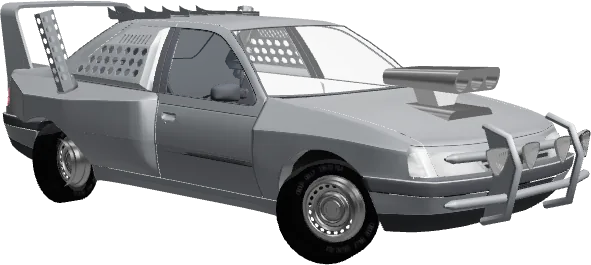
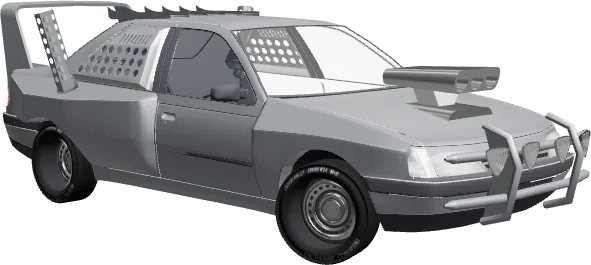
Game: round straight tires, fixed rims, Telegram safe areas, haptics
- Tires: the model's tire was ~12-sided and looked bent; replaced with
  a lathed 96-segment tire (bulged sidewall, rounded shoulder, tread
  and sidewall lettering texture) plus inner liner and hub backplate.
- Rims: the right-side rim in the model was inside-out; all four
  wheels now use the correct left rim, rotated (not mirrored).
- Front wheels steer by the real steering angle (no visual
  exaggeration), so they sit straight on a straight road.
- Header no longer hides under Telegram's fullscreen buttons: the
  game reads safeAreaInset + contentSafeAreaInset from the mini app's
  WebApp and follows its change events.
- Haptics via Telegram HapticFeedback (vibrate fallback): brake press
  and ABS pulses, near misses and combos, items, nitro, barrier, crash,
  countdown, gear shifts, garage tabs/colors/roads/upgrades, new record.
- Mini app: nav bar now slides fully off-screen on nav-less pages even
  with a large bottom safe area; card image re-rendered with new tires.

Claude-Session: https://claude.ai/code/session_013QubHuEE2Gi6bGAhgoo1tD

Changed region(s): [[0.4569, 0.6038, 0.6396, 1.0], [0.0305, 0.4528, 0.1827, 0.7849], [0.7919, 0.7245, 0.8223, 0.7547]]

diff --git a/app/webapp/static/game/index.html b/app/webapp/static/game/index.html
@@ -14,6 +14,8 @@
   color-scheme:dark;
 }
 [hidden]{display:none!important}
+/* --top/--bot: فاصله امن تلگرام (دکمه های بستن و منو در حالت تمام صفحه) یا خود گوشی */
+:root{--top:env(safe-area-inset-top,0px);--bot:env(safe-area-inset-bottom,0px)}
 html,body{height:100%}
 body{margin:0;background:var(--ink);color:var(--fg);font-family:var(--ui);overflow:hidden;-webkit-user-select:none;user-select:none;touch-action:none;-webkit-tap-highlight-color:transparent}
 #app{position:relative;height:100%;max-width:560px;margin:0 auto;overflow:hidden;background:#000}
@@ -24,7 +26,7 @@ button:focus-visible{outline:2px solid var(--aqua);outline-offset:2px}
 .num{font-variant-numeric:tabular-nums}
 
 /* ── HUD ── */
-#hud{position:absolute;inset:0;pointer-events:none;padding:calc(12px + env(safe-area-inset-top,0px)) 12px calc(14px + env(safe-area-inset-bottom,0px));display:flex;flex-direction:column}
+#hud{position:absolute;inset:0;pointer-events:none;padding:calc(12px + var(--top)) 12px calc(14px + var(--bot));display:flex;flex-direction:column}
 .hud-top{display:grid;grid-template-columns:44px 1fr auto;align-items:start;gap:10px}
 .ibtn{pointer-events:auto;width:44px;height:44px;border-radius:15px;display:grid;place-items:center;color:var(--fg);border:1px solid var(--stroke);background:var(--glass)}
 .ibtn svg{width:17px;height:17px}
@@ -80,7 +82,7 @@ button:focus-visible{outline:2px solid var(--aqua);outline-offset:2px}
 
 /* ── گاراژ: شوروم شب؛ ماشین بالای صفحه، پلاک مشخصات، زبانه ها، دکمه مسابقه ── */
 .dist .v,.combo .ring b,.pop b,#count,.res h2,.res .big b{font-weight:800}
-.sheet{position:absolute;inset:0;display:flex;flex-direction:column;padding:calc(14px + env(safe-area-inset-top,0px)) 14px calc(14px + env(safe-area-inset-bottom,0px));pointer-events:none}
+.sheet{position:absolute;inset:0;display:flex;flex-direction:column;padding:calc(14px + var(--top)) 14px calc(14px + var(--bot));pointer-events:none}
 .sheet > *{pointer-events:auto}
 .cut{clip-path:polygon(12px 0,100% 0,100% calc(100% - 12px),calc(100% - 12px) 100%,0 100%,0 12px)}
 .g-top{display:flex;align-items:center;gap:8px}
@@ -274,6 +276,32 @@ const fmt = n => FA(Math.round(n).toLocaleString('en-US'));
 const store = { get(k, d){ try { const v = localStorage.getItem('obour3d_' + k); return v == null ? d : JSON.parse(v); } catch(e){ return d; } },
                 set(k, v){ try { localStorage.setItem('obour3d_' + k, JSON.stringify(v)); } catch(e){} } };
 const rnd = (a, b) => a + Math.random() * (b - a);
+// تلگرام: داخل مینی اپ، بازی در iframe هم دامنه است و از WebApp صفحه مادر استفاده می کند
+const TG = (() => { try { if (window.parent !== window && window.parent.Telegram && window.parent.Telegram.WebApp) return window.parent.Telegram.WebApp; } catch(e){}
+  return (window.Telegram && window.Telegram.WebApp && window.Telegram.WebApp.initData) ? window.Telegram.WebApp : null; })();
+function applyInsets(){
+  if (!TG) return;
+  const sa = TG.safeAreaInset || {}, ca = TG.contentSafeAreaInset || {}, n = v => Number(v) > 0 ? Number(v) : 0;
+  const r = document.documentElement.style;
+  r.setProperty('--top', `max(env(safe-area-inset-top,0px), ${n(sa.top) + n(ca.top)}px)`);
+  r.setProperty('--bot', `max(env(safe-area-inset-bottom,0px), ${n(sa.bottom) + n(ca.bottom)}px)`);
+}
+applyInsets();
+if (TG && TG.onEvent) {
+  const evs = ['safeAreaChanged', 'contentSafeAreaChanged', 'fullscreenChanged', 'viewportChanged'];
+  for (const ev of evs) try { TG.onEvent(ev, applyInsets); } catch(e){}
+  window.addEventListener('pagehide', () => { for (const ev of evs) try { TG.offEvent(ev, applyInsets); } catch(e){} });
+}
+// لرزش: بازخورد لمسی تلگرام؛ بیرون تلگرام navigator.vibrate. چند لرزش پشت سرهم با فاصله کم یکی می شوند
+const Haptic = (() => {
+  const H = TG && TG.HapticFeedback, V = ms => { try { navigator.vibrate && navigator.vibrate(ms); } catch(e){} };
+  let last = 0; const gate = gap => { const t = performance.now(); if (t - last < gap) return false; last = t; return true; };
+  return {
+    tap(k = 'light', gap = 40){ if (!gate(gap)) return; try { if (H) H.impactOccurred(k); else V({ light:8, soft:6, medium:16, rigid:12, heavy:28 }[k] || 10); } catch(e){} },
+    note(k = 'success'){ last = performance.now(); try { if (H) H.notificationOccurred(k); else V(k === 'error' ? [40, 50, 70] : k === 'warning' ? [20, 40, 20] : [12, 30, 12]); } catch(e){} },
+    sel(){ if (!gate(30)) return; try { if (H) H.selectionChanged(); else V(5); } catch(e){} },
+  };
+})();
 const pick = a => a[Math.floor(Math.random() * a.length)];
 const clamp = (v, a, b) => Math.max(a, Math.min(b, v));
 const lerp = (a, b, t) => a + (b - a) * t;
@@ -655,12 +683,74 @@ const garageScene = new T.Scene();
 })();
 let showroomCar = null, carProto = null;
 const WHEEL_R = .276;
+/* لاستیک: لاستیک خود مدل خیلی کم چندضلعی بود (۱۲ وجه) و کج و شکسته دیده می شد.
+   این یکی از دوران یک مقطع واقعی ساخته می شود: ۹۶ قطعه، دیواره کمی برآمده، شانه گرد،
+   آج صاف. محور در x، مرکز روی توپی، مثل چرخ اصلی؛ رینگ خود مدل سر جایش می ماند.
+   v=۰ دیواره بیرونی (+x)، وسط آج، v=۱ دیواره داخلی. */
+const TIRE = (() => {
+  const R = WHEEL_R, W = .1, RIN = .19;
+  const pts = [], side = [];
+  // دیواره: از لبه رینگ تا شانه، با برآمدگی ملایم (سینوسی)
+  for (let i = 0; i <= 8; i++) { const t = i / 8, r = RIN + (R - .018 - RIN) * t; side.push([r, W * (.74 + .26 * Math.sin(t * Math.PI * .92))]); }
+  const shoulder = [[R - .009, W * .93], [R - .003, W * .86], [R, W * .76]];
+  const tread = []; for (let i = 1; i <= 7; i++) tread.push([R, W * .76 * (1 - 2 * i / 8)]);
+  const half = side.concat(shoulder);
+  for (const [r, x] of half) pts.push([r, x]);
+  for (const [r, x] of tread) pts.push([r, x]);
+  for (let i = half.length - 1; i >= 0; i--) pts.push([half[i][0], -half[i][1]]);
+  // Lathe دور محور y می چرخاند: y = عرض (x نهایی)، شعاع در xz؛ بعد محور را به x می بریم
+  const g = new T.LatheGeometry(pts.map(([r, x]) => new T.Vector2(r, -x)), 96);
+  g.rotateZ(Math.PI / 2);
+  g.computeVertexNormals();
+  const vT0 = half.length / (pts.length - 1), vT1 = (half.length + tread.length - 1) / (pts.length - 1);
+  const tex = canvasTex(2048, 256, (c, w, h) => {
+    const y = v => (1 - v) * h;   // flipY: v=0 پایین بوم
+    c.fillStyle = '#1A1B1E'; c.fillRect(0, 0, w, h);
+    // آج: بلوک های مورب با شیار وسط
+    const top = y(vT1), bot = y(vT0);
+    c.fillStyle = '#121315'; c.fillRect(0, top, w, bot - top);
+    c.strokeStyle = '#050506'; c.lineWidth = 7;
+    for (let i = 0; i < 72; i++) { const x = i * w / 72; c.beginPath(); c.moveTo(x, top); c.lineTo(x + 14, (top + bot) / 2 - 6); c.moveTo(x + 14, (top + bot) / 2 + 6); c.lineTo(x, bot); c.stroke(); }
+    c.fillStyle = '#050506'; c.fillRect(0, (top + bot) / 2 - 3, w, 6);
+    for (let i = 0; i < 9000; i++) { const g2 = Math.random() * 40; c.fillStyle = `rgba(${g2},${g2},${g2},.18)`; c.fillRect(Math.random() * w, Math.random() * h, 2, 2); }
+    // نوشته دیواره بیرونی (دو بار دور چرخ)
+    c.save(); c.fillStyle = 'rgba(205,208,214,.82)'; c.font = '700 30px Arial, sans-serif'; c.textBaseline = 'middle';
+    const ty = y(vT0 * .5);
+    for (let k = 0; k < 2; k++) c.fillText('OBOUR RALLY   195/60 R14   M+S', k * w / 2 + 160, ty);
+    c.restore();
+    // لبه رینگ و شانه کمی روشن تر
+    c.fillStyle = 'rgba(255,255,255,.05)'; c.fillRect(0, y(.02), w, 4); c.fillRect(0, y(.98), w, 4);
+  });
+  tex.wrapS = T.RepeatWrapping;
+  const mat = new T.MeshStandardMaterial({ map:tex, roughness:.88, metalness:0, envMapIntensity:.4, side:T.DoubleSide });
+  // پشت رینگ (توپی و ترمز): از سوراخ های رینگ نباید داخل لاستیک دیده شود
+  const back = new T.CircleGeometry(RIN, 48); back.rotateY(Math.PI / 2); back.translate(-W * .72, 0, 0);
+  const backMat = new T.MeshStandardMaterial({ color:0x0B0C0E, roughness:.7, metalness:.3, side:T.DoubleSide });
+  // آستر داخل لاستیک: لاستیک واقعی توخالی دیده نمی شود
+  const liner = new T.CylinderGeometry(RIN + .004, RIN + .004, W * 1.5, 48, 1, true); liner.rotateZ(Math.PI / 2);
+  const linerMat = new T.MeshStandardMaterial({ color:0x070708, roughness:1, metalness:0, envMapIntensity:0, side:T.DoubleSide });
+  return { g, mat, back, backMat, liner, linerMat };
+})();
 // مدل اصلی (obour405.json): بدنه با رنگ، شیشه ها، چراغ ها با بافت خود مدل؛ چرخ ها جدا با محور در مرکز توپی
 function prepCar(scene){
   const wg = scene.getObjectByName('wheels');
   if (wg) {
     // فایل چرخ ها برای عقب دو دست چرخ با رینگ دیگری دارد؛ عقب ها برداشته می شوند و همان چرخ جلو
     // در محور عقب (همان فاصله از وسط، مثل ۴۰۵ که عرض محور جلو و عقبش تقریبا یکی است) گذاشته می شود
+    // لاستیک کم چندضلعی مدل با لاستیک صاف و گرد عوض می شود؛ چرخ چپ ۱۸۰ درجه چرخیده تا نوشته بیرون باشد
+    for (const w of wg.children) {
+      const old = w.children.find(c => c.name === 'tire'); if (old) w.remove(old);
+      const t = new T.Mesh(TIRE.g, TIRE.mat); t.name = 'tire'; t.castShadow = true;
+      t.add(new T.Mesh(TIRE.back, TIRE.backMat), new T.Mesh(TIRE.liner, TIRE.linerMat));
+      if (w.position.x < 0) t.rotation.y = Math.PI;
+      w.add(t);
+    }
+    // رینگ سمت راست فایل مدل از پشت دیده می شد (رو و پشتش برعکس بود)؛ همان رینگ سالم چپ،
+    // ۱۸۰ درجه چرخیده (نه آینه)، برای هر چهار چرخ استفاده می شود
+    const leftRim = wg.children.filter(w => w.position.x < 0).map(w => w.children.find(c => c.name === 'rim')).find(Boolean);
+    if (leftRim) for (const w of wg.children) if (w.position.x > 0) {
+      const r = w.children.find(c => c.name === 'rim'); if (r) { r.geometry = leftRim.geometry; r.material = leftRim.material; r.rotation.y = Math.PI; }
+    }
     const rearZ = Math.max(...wg.children.map(w => w.position.z));
     for (const w of wg.children.slice()) if (w.position.z > 0) wg.remove(w);
     for (const w of wg.children.slice()) { const c = w.clone(); c.position.z = rearZ; c.name = w.name + 'r'; wg.add(c); }
@@ -921,7 +1011,7 @@ function newRun(){
   player = cloneCar();
   world.add(player);
   Object.assign(G, {
-    t:0, x:LANES[1], vx:0, tx:LANES[1], v:22, brake:0, brakeHeld:false, ax:0, vroad:22, vPrev:22, rollV:0, pitchV:0, acc:0, dist:0, near:0, combo:0, maxCombo:0, comboT:0,
+    t:0, x:LANES[1], vx:0, tx:LANES[1], v:22, gear:0, abs:0, brake:0, brakeHeld:false, ax:0, vroad:22, vPrev:22, rollV:0, pitchV:0, acc:0, dist:0, near:0, combo:0, maxCombo:0, comboT:0,
     coins:0, frags:0, gold:0, nitro:0, boost:0, shake:0, nextSpawn:40, yaw:0, roll:0, pitch:0,
     top:52 + lv.engine * 2.6, accel:4.5 + lv.engine * .55,
     odds:odds(rd.item), nitroGain:.8 + lv.nitro * .08, boostLen:2.8 + lv.nitro * .25,
@@ -954,9 +1044,9 @@ window.addEventListener('keydown', e => {
   if (S.mode === 'garage' && e.key === 'Enter') startRun();
 });
 window.addEventListener('keyup', e => { keys[e.key] = false; });
-function fireNitro(){ if (G.nitro >= 1 && !G.boost && !G.crashed) { G.boost = G.boostLen; G.nitro = 0; G.shake = .35; } }
+function fireNitro(){ if (G.nitro >= 1 && !G.boost && !G.crashed) { G.boost = G.boostLen; G.nitro = 0; G.shake = .35; Haptic.tap('heavy', 0); } }
 $('nitroBtn').addEventListener('click', fireNitro);
-{ const bb = $('brakeBtn'), on = v => e => { G.brakeHeld = v; bb.classList.toggle('on', v); if (v) { try { bb.setPointerCapture(e.pointerId); } catch(_){} } e.preventDefault(); };
+{ const bb = $('brakeBtn'), on = v => e => { if (v && !G.brakeHeld) Haptic.tap('medium', 0); G.brakeHeld = v; bb.classList.toggle('on', v); if (v) { try { bb.setPointerCapture(e.pointerId); } catch(_){} } e.preventDefault(); };
   bb.addEventListener('pointerdown', on(true)); for (const ev of ['pointerup', 'pointercancel', 'lostpointercapture']) bb.addEventListener(ev, on(false));
   bb.addEventListener('contextmenu', e => e.preventDefault()); }
 
@@ -970,7 +1060,9 @@ function nearMiss(gap){
   const hot = gap < .45;
   const pts = (hot ? 60 : 30) * G.combo;
   G.dist += pts / 10;
+  const was = G.nitro;
   G.nitro = Math.min(1, G.nitro + (hot ? .3 : .16) * G.nitroGain);
+  if (was < 1 && G.nitro >= 1) Haptic.note('success'); else Haptic.tap(hot ? 'medium' : G.combo >= 3 ? 'rigid' : 'light', 0);
   G.shake = Math.max(G.shake, hot ? .25 : .12); G.fov += hot ? 4 : 2;
   if (hot && Math.random() < G.odds.chip * .5) { const m = makeItem('chip'); m.position.set(G.x, 1.1, -60); world.add(m); items.push({ m, kind:'chip', x:G.x }); }
   popup(hot ? 'خیلی نزدیک!' : 'لایی!', '+' + FA(pts) + (G.combo > 1 ? '  ×' + FA(G.combo) : ''), hot);
@@ -978,15 +1070,17 @@ function nearMiss(gap){
 function collect(it){
   burst(it.m.position, itemMat[it.kind].color, 16, 6);
   world.remove(it.m); it.got = true;
-  if (it.kind === 'coin') G.coins += 1 + Math.floor(G.combo / 3);
-  else if (it.kind === 'chip') { G.frags++; popup('قطعه اینترنت', '+۱', false); }
+  if (it.kind === 'coin') { G.coins += 1 + Math.floor(G.combo / 3); Haptic.sel(); }
+  else if (it.kind === 'chip') { G.frags++; popup('قطعه اینترنت', '+۱', false); Haptic.note('success'); }
   else { const r = Math.random();
-    if (r < G.odds.gold) { G.gold++; popup('قطعه طلایی!', 'هوش مصنوعی', true); }
+    Haptic.tap('medium', 0);
+    if (r < G.odds.gold) { G.gold++; popup('قطعه طلایی!', 'هوش مصنوعی', true); setTimeout(() => Haptic.note('success'), 120); }
     else if (r < .5) { G.nitro = 1; popup('نیترو پر شد', '', false); }
     else { G.coins += 15; popup('+۱۵ سکه', '', false); } }
 }
 function crash(t){
   G.crashed = true; G.crashT = 0; G.slow = .32;
+  Haptic.tap('heavy', 0); setTimeout(() => Haptic.note('error'), 140);
   const side = Math.sign(G.x - t.m.position.x) || 1;
   const rel = Math.max(6, G.v - t.v);
   // ضربه: سرعت جانبی و رو به بالا، چرخش حول سه محور؛ ماشین مقابل هم هل داده می شود
@@ -1008,7 +1102,9 @@ function step(dt){
     const pedal = keys.ArrowDown || keys.s || G.brakeHeld ? 1 : 0;
     G.brake += clamp(pedal - G.brake, -8 * dt, 5 * dt);
     G.ax = -G.brake * .9 * G.mu * 9.81;
-    if (G.brake > .02) { G.v = Math.max(0, G.v + G.ax * dt); G.boost = 0; }
+    if (G.brake > .02) { G.v = Math.max(0, G.v + G.ax * dt); G.boost = 0;
+      // ضربان ABS زیر انگشت تا وقتی ماشین هنوز حرکت دارد
+      if (G.brake > .6 && G.v > 6) { G.abs = (G.abs || 0) - dt; if (G.abs <= 0) { G.abs = .16; Haptic.tap('soft', 0); } } }
     else G.v += (top - G.v) * (G.accel / 60) * dt * (G.boost ? 4 : 1);
     if (G.boost) G.boost = Math.max(0, G.boost - dt);
     if (keys.ArrowLeft || keys.a) G.tx = Math.max(-HALF_ROAD + 1.1, G.tx - 9 * dt);
@@ -1022,7 +1118,7 @@ function step(dt){
         const sd = Math.sign(G.x);
         G.x = sd * lim; G.tx = clamp(G.tx, -lim + .6, lim - .6);
         if (G.vx * sd > 0) {   // برخورد با لبه: سرعت جانبی برمی گردد، دماغه از گاردریل دور می شود
-          G.psi *= -.25; G.vy *= -.3; G.r *= .3; G.v *= .96; G.shake = .4; G.combo = 0;
+          G.psi *= -.25; G.vy *= -.3; G.r *= .3; G.v *= .96; G.shake = .4; G.combo = 0; Haptic.tap('rigid', 0);
           burst(new T.Vector3(G.x + sd * .9, .5, 0), 0xFFD38A, 6, 5);
         }
       }
@@ -1101,10 +1197,10 @@ function placePlayer(dt){
     u.body.position.y = Math.sin(G.t * 23) * .004 * (G.v / 40);
     for (const [m, k] of carTails) m.emissiveIntensity = k * (1 + G.brake * 2.6);   // چراغ ترمز
     for (const w of u.wheels) { w.rotation.order = 'YXZ'; w.rotation.x -= G.v * dt / u.P.wheel; }
-    // چرخ های جلو با زاویه واقعی فرمان و هندسه آکرمن (چرخ داخل پیچ تندتر)؛
-    // در سرعت بالا زاویه واقعی چند درجه است، برای دیده شدن با ضریب سرعت بزرگ نمایی می شود
+    // چرخ های جلو دقیقا با زاویه واقعی فرمان و هندسه آکرمن (چرخ داخل پیچ کمی تندتر)؛
+    // در سرعت بالا مثل ماشین واقعی فقط چند درجه است و در مسیر مستقیم صاف
     if (u.front) {
-      const dv = clamp(G.delta * clamp(G.v / 14, 1, 3.2), -.5, .5);
+      const dv = clamp(G.delta, -.55, .55);
       for (const w of u.front) {
         const sx = Math.sign(w.position.x) || 1;
         let ang = dv;
@@ -1141,7 +1237,10 @@ function hud(now){
   const kmh = G.v * 3.6;
   $('dist').textContent = fmt(G.dist);
   $('spd').textContent = FA(Math.round(kmh));
-  $('gear').textContent = G.brake > .3 ? 'ترمز' : G.boost ? 'نیترو' : 'دنده ' + FA(Math.min(6, 1 + Math.floor(kmh / 45)));
+  const gear = Math.min(6, 1 + Math.floor(kmh / 45));
+  if (G.gear && gear > G.gear && !G.brake) Haptic.tap('soft');   // تعویض دنده
+  G.gear = gear;
+  $('gear').textContent = G.brake > .3 ? 'ترمز' : G.boost ? 'نیترو' : 'دنده ' + FA(gear);
   $('gArc').setAttribute('stroke-dasharray', `${Math.min(100, kmh / 330 * 100).toFixed(1)} 100`);
   $('coins').textContent = FA(G.coins); $('frags').textContent = FA(G.frags);
   $('recBar').style.width = (best ? Math.min(100, G.dist / best * 100) : 100) + '%';
@@ -1200,16 +1299,17 @@ function renderGarage(){
   for (const b of document.querySelectorAll('.tab')) b.classList.toggle('on', b.dataset.tab === tab);
   for (const k of ['upg', 'paint', 'road']) $('pane-' + k).hidden = k !== tab;
 }
-document.querySelector('.tabs').addEventListener('click', e => { const b = e.target.closest('[data-tab]'); if (!b) return; tab = b.dataset.tab; renderGarage(); });
-$('roads').addEventListener('click', e => { const b = e.target.closest('[data-road]'); if (!b) return; roadKey = b.dataset.road; store.set('road', roadKey); renderGarage(); });
+document.querySelector('.tabs').addEventListener('click', e => { const b = e.target.closest('[data-tab]'); if (!b) return; tab = b.dataset.tab; Haptic.sel(); renderGarage(); });
+$('roads').addEventListener('click', e => { const b = e.target.closest('[data-road]'); if (!b) return; roadKey = b.dataset.road; store.set('road', roadKey); Haptic.sel(); renderGarage(); });
 $('upg').addEventListener('click', e => {
   const b = e.target.closest('[data-up]'); if (!b) return;
   const k = b.dataset.up, c = cost(lv[k] + 1);
-  if (bank < c || lv[k] >= MAXLV) return;
+  if (bank < c || lv[k] >= MAXLV) return Haptic.note('warning');
+  Haptic.note('success');
   bank -= c; lv[k]++; store.set('bank', bank); store.set('lv', lv);
   garageSpin += .6; renderGarage();
 });
-$('colors').addEventListener('click', e => { const b = e.target.closest('[data-color]'); if (!b) return; colorIdx = +b.dataset.color; store.set('paint', colorIdx); setShowroomCar(); renderGarage(); });
+$('colors').addEventListener('click', e => { const b = e.target.closest('[data-color]'); if (!b) return; colorIdx = +b.dataset.color; store.set('paint', colorIdx); Haptic.sel(); setShowroomCar(); renderGarage(); });
 
 /* ── چرخه حالت ها ── */
 let ranked = true;
@@ -1219,12 +1319,12 @@ function startRun(){
   setTheme(roadKey); newRun();
   $('garage').hidden = true; $('result').hidden = true; $('paused').hidden = true; $('hud').hidden = false;
   camera.clearViewOffset(); G.fov = camera.aspect < .7 ? 70 : 58;
-  S.mode = 'count'; S.countT = 3.2; S.paused = false; $('count').hidden = false;
+  S.mode = 'count'; S.countT = 3.2; S.lastN = null; S.paused = false; Haptic.tap('medium', 0); $('count').hidden = false;
 }
 function endRun(){
   S.mode = 'result';
   const d = Math.round(G.dist), isBest = d > best;
-  if (isBest) { best = d; store.set('best', best); }
+  if (isBest) { best = d; store.set('best', best); setTimeout(() => Haptic.note('success'), 600); }
   if (ranked) { frags += G.frags; store.set('frags', frags); }
   bank += G.coins; store.set('bank', bank);
   $('rBadge').hidden = !isBest;
@@ -1243,7 +1343,7 @@ function togglePause(){ if (S.mode !== 'play') return; S.paused = !S.paused; $('
 $('startBtn').addEventListener('click', startRun);
 $('again').addEventListener('click', startRun);
 $('toGarage').addEventListener('click', toGarage);
-$('pauseBtn').addEventListener('click', togglePause);
+$('pauseBtn').addEventListener('click', () => { Haptic.tap('light', 0); togglePause(); });
 $('resume').addEventListener('click', togglePause);
 $('quit').addEventListener('click', toGarage);
 document.addEventListener('visibilitychange', () => { if (document.hidden && S.mode === 'play' && !S.paused) togglePause(); });
@@ -1276,6 +1376,7 @@ function frame(){
   if (S.mode === 'count') {
     S.countT -= raw;
     const n = Math.ceil(S.countT - .2);
+    if (n !== S.lastN) { S.lastN = n; Haptic.tap(n > 0 ? 'light' : 'heavy', 0); }
     $('count').innerHTML = (n > 0 ? FA(n) : 'برو!') + '<small>انگشت را چپ و راست بکش · ترمز را نگه دار · لایی نزدیک = نیترو</small>';
     if (S.countT <= 0) { $('count').hidden = true; S.mode = 'play'; }
     placePlayer(0); placeCamera(raw); return render(world);
@@ -1295,6 +1396,6 @@ loadCar();
 if (window.parent !== window) { $('closeBtn').hidden = false; $('closeBtn').addEventListener('click', () => { try { window.parent.postMessage({ obour:'game-close' }, location.origin); } catch(e){} }); }
 resize(); setTheme(roadKey); setEnvK(.8); garageBloom(); setShowroomCar(); renderGarage(); updatePosts();
 frame();
-window.__obour = { start:startRun, G, S, keys, setRoad(k){ roadKey = k; renderGarage(); }, spin(v){ garageSpin = v; }, freeze(v){ window.__obourFreeze = v; } };
+window.__obour = { start:startRun, G, S, keys, setRoad(k){ roadKey = k; renderGarage(); }, spin(v){ garageSpin = v; }, car(){ return showroomCar; }, player(){ return player; }, freeze(v){ window.__obourFreeze = v; } };
 })();
 </script>

diff --git a/app/webapp/static/index.html b/app/webapp/static/index.html
@@ -1069,7 +1069,8 @@ html[dir=ltr] .sw.on::after{transform:translateX(18px)}
 #nav::before{content:"";position:absolute;inset:0;border-radius:inherit;padding:1.2px;pointer-events:none;z-index:2;opacity:.85;
   background:linear-gradient(135deg,#7FF3FF,#8A6CFF 40%,rgba(255,255,255,.08) 60%,#FF8AD8);
   -webkit-mask:linear-gradient(#000 0 0) content-box,linear-gradient(#000 0 0);-webkit-mask-composite:xor;mask-composite:exclude}
-#app.no-nav #nav{transform:translateY(140%)}
+/* کامل بیرون: ۱۴۰٪ ارتفاع خود نوار با فاصله امن بزرگ پایین (آیفون تمام صفحه) کافی نبود و لبه اش می ماند */
+#app.no-nav #nav{transform:translateY(calc(100% + 24px + var(--safe-b)))}
 .nav-i{position:relative;z-index:1;display:flex;flex-direction:column;align-items:center;justify-content:center;gap:3px;color:rgba(230,238,255,.55);transition:color .35s}
 .nav-i svg{width:22px;height:22px;transition:transform .45s var(--spring),filter .35s}
 .nav-i:active svg{transform:scale(.88)}
@@ -2088,7 +2089,7 @@ async account(p){
 }
 };
 
-const APP_VERSION = '6.2.0';
+const APP_VERSION = '6.2.1';
 const Account = {
   /* زبان با ربات یکی است: همان ستون users.lang، پس انتخاب اینجا زبان
      ربات را هم عوض می کند. عوض کردنش صفحه را از نو می سازد. */
